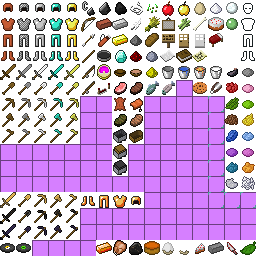
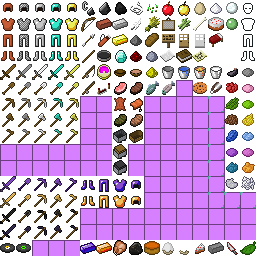
Beta 1.8.3_r47 & Beta 1.8.3_c1
This change includes:
Osmium! Osmium Ingots, Ore, And Blocks (Mostly Client Side)
Osmium Assets, Refresh your Assets

This is one of the last commits coming for B2B 1.8.3 before it is
released

Version for RTM Release Version: 1.8.3_r55 or 1.8.3_c2

Changed region(s): [[0.0, 0.6875, 0.5625, 0.75], [0.3125, 0.9375, 0.375, 1.0]]

diff --git a/src/minecraft_server/net/minecraft/src/B2BBlocks.java b/src/minecraft_server/net/minecraft/src/B2BBlocks.java
@@ -62,5 +62,7 @@ public class B2BBlocks {
     public static final Block hellGold = (new BlockHellOre(111, 141)).setHardness(3F).setResistance(5F).setStepSound(Block.soundStoneFootstep).setBlockName("oreGold");
     public static final Block oreCopper = new BlockOre(112, 143).setHardness(3F).setResistance(5F).setStepSound(Block.soundStoneFootstep).setBlockName("oreCopper");
     public static final Block blockCopper = new BlockOreStorage(113, 173).setHardness(5F).setResistance(10F).setStepSound(Block.soundMetalFootstep).setBlockName("blockCopper");
+    public static final Block oreOsmium = new BlockOre(114, 175).setHardness(3F).setResistance(5F).setStepSound(Block.soundStoneFootstep).setBlockName("oreOsmium");
+    public static final Block blockOsmium = new BlockOreStorage(114, 176).setHardness(5F).setResistance(5F).setStepSound(Block.soundMetalFootstep).setBlockName("blockOsmium");
 }
 

diff --git a/src/minecraft/net/minecraft/src/B2BBlocks.java b/src/minecraft/net/minecraft/src/B2BBlocks.java
@@ -62,4 +62,6 @@ public class B2BBlocks {
     public static final Block hellGold = (new BlockHellOre(111, 141)).setHardness(3F).setResistance(5F).setStepSound(Block.soundStoneFootstep).setBlockName("oreGold");
     public static final Block oreCopper = new BlockOre(112, 143).setHardness(3F).setResistance(5F).setStepSound(Block.soundStoneFootstep).setBlockName("oreCopper");
     public static final Block blockCopper = new BlockOreStorage(113, 173).setHardness(5F).setResistance(10F).setStepSound(Block.soundMetalFootstep).setBlockName("blockCopper");
+    public static final Block oreOsmium = new BlockOre(114, 175).setHardness(3F).setResistance(5F).setStepSound(Block.soundStoneFootstep).setBlockName("oreOsmium");
+    public static final Block blockOsmium = new BlockOreStorage(114, 176).setHardness(5F).setResistance(5F).setStepSound(Block.soundMetalFootstep).setBlockName("blockOsmium");
 }

diff --git a/src/minecraft/net/minecraft/src/B2BItems.java b/src/minecraft/net/minecraft/src/B2BItems.java
@@ -63,6 +63,6 @@ public class B2BItems {
     public static Item plateCopper = (new ItemArmor(231, 8, 8, 1)).setIconCoord(7, 12).setItemName("chestplateCopper");
     public static Item legsCopper = (new ItemArmor(232, 8, 8, 2)).setIconCoord(6, 12).setItemName("leggingsCopper");
     public static Item bootsCopper = (new ItemArmor(233, 8, 8, 3)).setIconCoord(5, 12).setItemName("bootsCopper");
-
+    public static Item ingotOsmium = (new Item(234)).setIconCoord(5, 15).setItemName("ingotOsmium");
 }
 

diff --git a/src/minecraft_server/net/minecraft/src/B2BItems.java b/src/minecraft_server/net/minecraft/src/B2BItems.java
@@ -63,6 +63,7 @@ public class B2BItems {
     public static Item plateCopper = (new ItemArmor(231, 8, 8, 1)).setIconCoord(6, 12).setItemName("chestplateCopper");
     public static Item legsCopper = (new ItemArmor(232, 8, 8, 2)).setIconCoord(7, 12).setItemName("leggingsCopper");
     public static Item bootsCopper = (new ItemArmor(233, 8, 8, 3)).setIconCoord(8, 12).setItemName("bootsCopper");
+    public static Item ingotOsmium = (new Item(234)).setIconCoord(5, 15).setItemName("ingotOsmium");
 }
 
 

diff --git a/src/minecraft/net/minecraft/src/EnumToolMaterial.java b/src/minecraft/net/minecraft/src/EnumToolMaterial.java
@@ -15,7 +15,8 @@ public enum EnumToolMaterial
 	BUTTERKNIFE("BUTTERKNIFE", 5, 3, 9000, 9000F, 9000),
 	OBSIDIAN("OBSIDIAN", 6, 3, 59, 11F, 6),
 	ONYX("ONYX", 7, 3, 550, 7F, 2),
-	COPPER("COPPER", 8, 2, 230, 5F, 2);
+	COPPER("COPPER", 8, 2, 230, 5F, 2),
+	OSMIUM("OSMIUM", 9, 3, 2633, 17F, 7);
 /*
     public static EnumToolMaterial[] values()
     {
